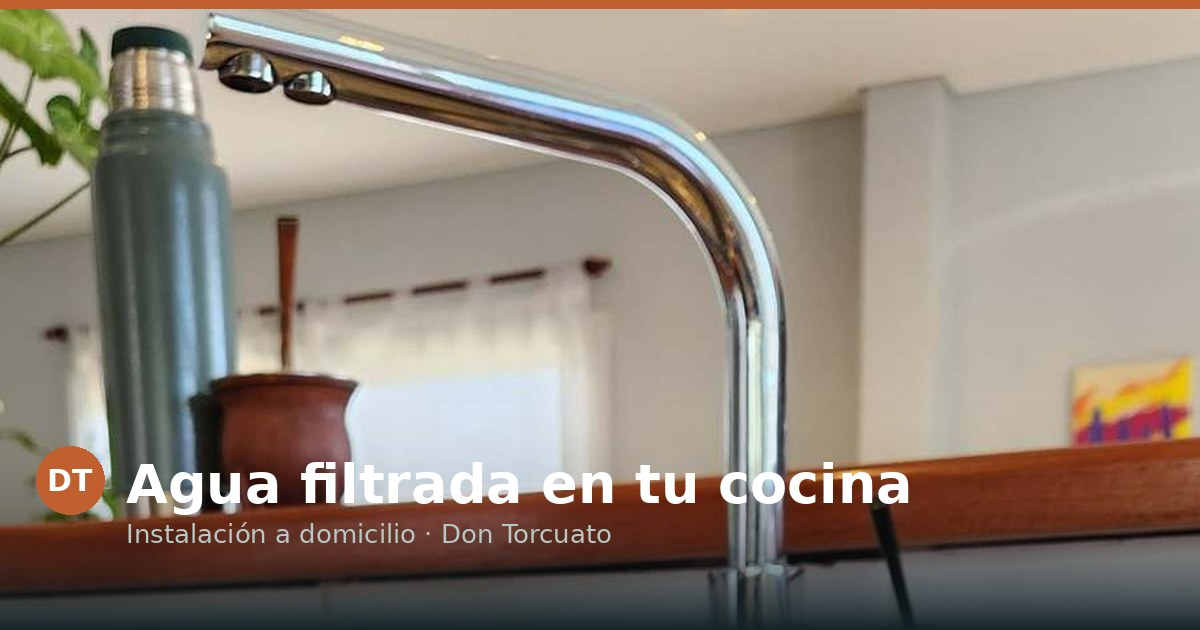
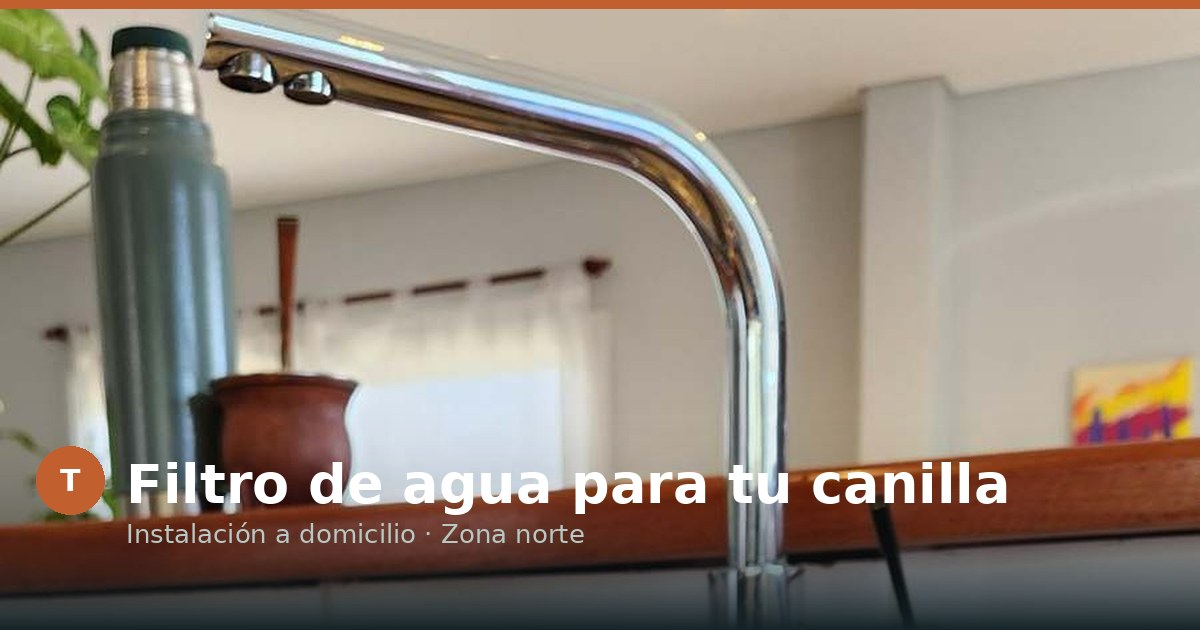
cambio url y google trends

Changed region(s): [[0.0308, 0.7238, 0.8633, 0.8746]]

diff --git a/index.html b/index.html
@@ -3,25 +3,25 @@
 <head>
 <meta charset="UTF-8">
 <meta name="viewport" content="width=device-width, initial-scale=1">
-<link rel="icon" type="image/png" sizes="192x192" href="https://agua-corriente.torcua.com.ar/favicon-192.png">
-<link rel="icon" type="image/png" sizes="32x32" href="https://agua-corriente.torcua.com.ar/favicon-32.png">
-<link rel="shortcut icon" href="https://agua-corriente.torcua.com.ar/favicon.ico">
-<link rel="apple-touch-icon" href="https://agua-corriente.torcua.com.ar/favicon-192.png">
-<meta name="description" content="Instalación de agua filtrada a domicilio en Don Torcuato. Sin sedimentos, sin cloro, instalada en el día. Pedí tu presupuesto sin cargo por WhatsApp.">
-<link rel="canonical" href="https://agua-corriente.torcua.com.ar/">
+<link rel="icon" type="image/png" sizes="192x192" href="https://filtro-agua.torcua.com.ar/favicon-192.png">
+<link rel="icon" type="image/png" sizes="32x32" href="https://filtro-agua.torcua.com.ar/favicon-32.png">
+<link rel="shortcut icon" href="https://filtro-agua.torcua.com.ar/favicon.ico">
+<link rel="apple-touch-icon" href="https://filtro-agua.torcua.com.ar/favicon-192.png">
+<meta name="description" content="Instalación de filtro de agua para canilla y para tu casa en zona norte. Filtro de sedimentos y carbón activado, sin cloro, instalado en el día. Presupuesto sin cargo por WhatsApp.">
+<link rel="canonical" href="https://filtro-agua.torcua.com.ar/">
 <meta property="og:type" content="website">
 <meta property="og:locale" content="es_AR">
-<meta property="og:url" content="https://agua-corriente.torcua.com.ar/">
+<meta property="og:url" content="https://filtro-agua.torcua.com.ar/">
 <meta property="og:site_name" content="Agua Filtrada Don Torcuato">
-<meta property="og:title" content="Agua Filtrada Don Torcuato">
-<meta property="og:description" content="Instalación de agua filtrada a domicilio en Don Torcuato. Sin sedimentos, sin cloro, instalada en el día. Pedí tu presupuesto sin cargo por WhatsApp.">
-<meta property="og:image" content="https://agua-corriente.torcua.com.ar/og-image.jpg">
+<meta property="og:title" content="Filtro de agua para tu casa, instalado en zona norte">
+<meta property="og:description" content="Instalación de filtro de agua para canilla y para tu casa en zona norte. Filtro de sedimentos y carbón activado, sin cloro, instalado en el día. Presupuesto sin cargo por WhatsApp.">
+<meta property="og:image" content="https://filtro-agua.torcua.com.ar/og-image.jpg">
 <meta property="og:image:width" content="1200">
 <meta property="og:image:height" content="630">
 <meta name="twitter:card" content="summary_large_image">
-<meta name="twitter:title" content="Agua Filtrada Don Torcuato">
-<meta name="twitter:description" content="Instalación de agua filtrada a domicilio en Don Torcuato. Sin sedimentos, sin cloro, instalada en el día. Pedí tu presupuesto sin cargo por WhatsApp.">
-<meta name="twitter:image" content="https://agua-corriente.torcua.com.ar/og-image.jpg">
+<meta name="twitter:title" content="Filtro de agua para tu casa, instalado en zona norte">
+<meta name="twitter:description" content="Instalación de filtro de agua para canilla y para tu casa en zona norte. Filtro de sedimentos y carbón activado, sin cloro, instalado en el día. Presupuesto sin cargo por WhatsApp.">
+<meta name="twitter:image" content="https://filtro-agua.torcua.com.ar/og-image.jpg">
 <!-- Google Tag Manager -->
 <script>(function(w,d,s,l,i){w[l]=w[l]||[];w[l].push({'gtm.start':
 new Date().getTime(),event:'gtm.js'});var f=d.getElementsByTagName(s)[0],
@@ -29,16 +29,16 @@ j=d.createElement(s),dl=l!='dataLayer'?'&l='+l:'';j.async=true;j.src=
 'https://www.googletagmanager.com/gtm.js?id='+i+dl;f.parentNode.insertBefore(j,f);
 })(window,document,'script','dataLayer','GTM-WCQWR267');</script>
 <!-- End Google Tag Manager -->
-<title>Agua Filtrada Don Torcuato</title>
+<title>Filtro de agua para canilla: instalación a domicilio en zona norte</title>
 <script type="application/ld+json">
 {
   "@context": "https://schema.org",
   "@type": "Plumber",
   "name": "Agua Filtrada Don Torcuato",
-  "image": "https://agua-corriente.torcua.com.ar/og-image.jpg",
-  "url": "https://agua-corriente.torcua.com.ar/",
+  "image": "https://filtro-agua.torcua.com.ar/og-image.jpg",
+  "url": "https://filtro-agua.torcua.com.ar/",
   "telephone": "+5491166056378",
-  "priceRange": "$220000 - $345000",
+  "priceRange": "$220000 - $690000",
   "currenciesAccepted": "ARS",
   "paymentAccepted": "Efectivo, Transferencia",
   "areaServed": {
@@ -55,7 +55,8 @@ j=d.createElement(s),dl=l!='dataLayer'?'&l='+l:'';j.async=true;j.src=
     {"@type":"Offer","itemOffered":{"@type":"Service","name":"Instalación de filtro de agua - Esencial","description":"Filtro de sedimentos y carbón activado con canilla exclusiva de agua filtrada, instalación incluida."},"price":"220000","priceCurrency":"ARS"},
     {"@type":"Offer","itemOffered":{"@type":"Service","name":"Instalación de filtro de agua - 3 en 1 Cromo","description":"Canilla monocomando fría/caliente/filtrada con terminación cromada, instalación incluida."},"price":"315000","priceCurrency":"ARS"},
     {"@type":"Offer","itemOffered":{"@type":"Service","name":"Instalación de filtro de agua - 3 en 1 Negro Mate","description":"Canilla monocomando fría/caliente/filtrada con terminación negra satinada, instalación incluida."},"price":"330000","priceCurrency":"ARS"},
-    {"@type":"Offer","itemOffered":{"@type":"Service","name":"Instalación de filtro de agua - 3 en 1 Negro Flex","description":"Canilla monocomando fría/caliente/filtrada extensible, instalación incluida.","priceCurrency":"ARS"},"price":"345000","priceCurrency":"ARS"}
+    {"@type":"Offer","itemOffered":{"@type":"Service","name":"Instalación de filtro de agua - 3 en 1 Negro Flex","description":"Canilla monocomando fría/caliente/filtrada extensible, instalación incluida.","priceCurrency":"ARS"},"price":"345000","priceCurrency":"ARS"},
+    {"@type":"Offer","itemOffered":{"@type":"Service","name":"Instalación de ósmosis inversa bajo mesada","description":"Equipo de ósmosis inversa de 5 etapas con tanque y canilla exclusiva, instalación incluida."},"price":"690000","priceCurrency":"ARS"}
   ]
 }
 </script>
@@ -67,7 +68,10 @@ j=d.createElement(s),dl=l!='dataLayer'?'&l='+l:'';j.async=true;j.src=
     {"@type":"Question","name":"¿El agua de red de AySA tiene sarro?","acceptedAnswer":{"@type":"Answer","text":"No. El agua de red no tiene sarro, a diferencia del agua de pozo de la zona, que sí lo forma con el tiempo. Es un buen momento para cambiar la canilla vieja o manchada por una nueva."}},
     {"@type":"Question","name":"¿Cuánto tarda la instalación de un filtro de agua?","acceptedAnswer":{"@type":"Answer","text":"La instalación se hace en el mismo día, sin obra ni roturas en tu cocina. Se conecta directo a la llave de paso existente bajo mesada."}},
     {"@type":"Question","name":"¿Hay que esperar a que termine la obra de AySA para instalar el filtro?","acceptedAnswer":{"@type":"Answer","text":"No hace falta esperar. Instalando ahora vas a tener agua filtrada funcionando desde el primer momento en que llegue la conexión de AySA a tu casa, sin una segunda intervención en tu cocina más adelante."}},
-    {"@type":"Question","name":"¿Cuánto cuesta instalar un filtro de agua en Don Torcuato?","acceptedAnswer":{"@type":"Answer","text":"Depende de la grifería que elijas: desde $220.000 con la opción Esencial (usando tu canilla actual) hasta $345.000 con una canilla nueva 3 en 1 fría/caliente/filtrada, instalación incluida."}},
+    {"@type":"Question","name":"¿Cuánto cuesta instalar un filtro de agua en Don Torcuato?","acceptedAnswer":{"@type":"Answer","text":"Depende de la grifería que elijas: desde $220.000 con la opción Esencial (usando tu canilla actual) hasta $345.000 con una canilla nueva 3 en 1 fría/caliente/filtrada. Si preferís ósmosis inversa de 5 etapas, el equipo instalado es $690.000. Todos incluyen instalación."}},
+    {"@type":"Question","name":"¿Cuál es la diferencia entre el filtro de sedimentos y carbón y la ósmosis inversa?","acceptedAnswer":{"@type":"Answer","text":"Los equipos de sedimentos y carbón activado retienen partículas y quitan el cloro, el olor y el mal sabor; no modifican los minerales del agua, no necesitan electricidad ni descarga a desagüe y salen desde $220.000. La ósmosis inversa de 5 etapas agrega una membrana que reduce además sales y minerales disueltos; usa tanque de almacenamiento, descarga una parte del agua al desagüe y requiere cambiar la membrana y filtros periódicamente. Sale $690.000 instalada. Para agua de red, la primera opción alcanza en la mayoría de los casos; la ósmosis conviene si querés el agua más depurada posible."}},
+    {"@type":"Question","name":"¿Cuánta agua descarta la ósmosis inversa y qué necesita para funcionar?","acceptedAnswer":{"@type":"Answer","text":"Un equipo de ósmosis inversa aprovecha cerca de 30% del agua que recibe y descarta alrededor de 70% al desagüe. Necesita una presión de red de unos 2 kg; si tu casa tiene menos, se agrega una bomba presurizadora. Hay que conectarlo también al desagüe de la cocina."}},
+    {"@type":"Question","name":"¿Cuánto cuesta el mantenimiento de un equipo de ósmosis inversa?","acceptedAnswer":{"@type":"Answer","text":"De manera orientativa, los filtros se cambian una vez por año (alrededor de $60.000) y cada dos años se cambian filtros y membrana (alrededor de $120.000). Los valores pueden variar; consultanos el precio actual de los repuestos."}},
     {"@type":"Question","name":"¿Qué incluye la instalación?","acceptedAnswer":{"@type":"Answer","text":"Filtro de sedimentos de 5 micrones, filtro de carbón activado que elimina el cloro y el mal sabor, la canilla que elijas, y la instalación completa en el día. Servicio directo, sin intermediarios."}}
   ]
 }
@@ -234,6 +238,8 @@ nav .wrap{display:flex;align-items:center;justify-content:space-between;height:6
 .packages h2{font-size:29px;margin-bottom:6px;}
 .packages > .wrap > p{color:var(--ink-soft);margin-top:8px;font-size:16.5px;}
 .pkg-grid{display:grid;grid-template-columns:1fr 1fr;gap:20px;margin-top:28px;}
+.pkg-ro{grid-column:1/-1;}
+.pkg-ro .pkg-body{max-width:640px;}
 .pkg{
   background:var(--surface);border:1px solid var(--line);border-radius:14px;
   overflow:hidden;display:flex;flex-direction:column;position:relative;
@@ -373,8 +379,8 @@ height="0" width="0" style="display:none;visibility:hidden"></iframe></noscript>
 <header class="hero">
   <div class="wrap hero-grid">
     <div>
-      <div class="eyebrow">Instalación a domicilio · Don Torcuato</div>
-      <h1>Agua de la canilla,<br><em>sin gusto a cloro.</em></h1>
+      <div class="eyebrow">Instalación a domicilio · Zona norte</div>
+      <h1>Filtro de agua para tu canilla,<br><em>instalado en el día.</em></h1>
       <p>Con la obra de conexión a la red de agua corriente que arrancó esta semana en el barrio, tu casa ya va a tener agua segura. Filtrada de sedimentos y sin sabor a cloro, servida directo de tu propia canilla — instalado en el día.</p>
       <p class="hero-hook">¿Por qué seguir gastando en bidones? Aprovechá el momento justo para pasarte a agua corriente filtrada — sin gusto a cloro, sin sedimentos y sin sarro.</p>
       <div class="hero-actions">
@@ -405,8 +411,8 @@ height="0" width="0" style="display:none;visibility:hidden"></iframe></noscript>
         <p>El <strong>cartucho de carbón activado</strong> saca el gusto y olor a cloro del agua de red, para tomarla directo de la canilla.</p>
       </div>
       <div class="strip-card">
-        <span class="tag">Sin arsénico</span>
-        <p>La red de AySA ya resuelve el problema de arsénico del agua de pozo de la zona. Los filtros mejoran lo que la red no controla: sabor y sedimentos.</p>
+        <span class="tag">Arsénico en el agua</span>
+        <p>El agua de red de AySA ya tiene el arsénico controlado, a diferencia del agua de pozo. Este kit de filtros mejora lo que la red no controla: sabor, olor a cloro y sedimentos.</p>
       </div>
       <div class="strip-card">
         <span class="tag">Más ahorro</span>
@@ -435,8 +441,8 @@ height="0" width="0" style="display:none;visibility:hidden"></iframe></noscript>
 
 <section class="packages" id="paquetes">
   <div class="wrap">
-    <h2>Cuatro opciones de instalación</h2>
-    <p>Precio final instalado, según la grifería que elijas.</p>
+    <h2>Cinco opciones de instalación</h2>
+    <p>Precio final instalado: cuatro con filtros de sedimentos y carbón activado, según la grifería que elijas, y una de ósmosis inversa.</p>
     <div class="pkg-grid">
 
       <div class="pkg">
@@ -500,6 +506,20 @@ height="0" width="0" style="display:none;visibility:hidden"></iframe></noscript>
         </div>
       </div>
 
+      <div class="pkg pkg-ro">
+        <div class="pkg-body">
+          <h3>Ósmosis inversa 5 etapas</h3>
+          <div class="price">$690.000 <small>instalado</small></div>
+          <ul>
+            <li><svg width="15" height="15" viewBox="0 0 24 24" fill="none"><path d="M20 6L9 17l-5-5" stroke="currentColor" stroke-width="2.5" stroke-linecap="round" stroke-linejoin="round"/></svg>Ósmosis inversa de 5 etapas con membrana, tanque de almacenamiento y canilla exclusiva</li>
+            <li><svg width="15" height="15" viewBox="0 0 24 24" fill="none"><path d="M20 6L9 17l-5-5" stroke="currentColor" stroke-width="2.5" stroke-linecap="round" stroke-linejoin="round"/></svg>Agua más depurada: reduce sales y minerales disueltos además del cloro y los sedimentos</li>
+            <li><svg width="15" height="15" viewBox="0 0 24 24" fill="none"><path d="M20 6L9 17l-5-5" stroke="currentColor" stroke-width="2.5" stroke-linecap="round" stroke-linejoin="round"/></svg>Conexión a la red y al desagüe incluidas</li>
+            <li><svg width="15" height="15" viewBox="0 0 24 24" fill="none"><path d="M20 6L9 17l-5-5" stroke="currentColor" stroke-width="2.5" stroke-linecap="round" stroke-linejoin="round"/></svg>Instalación incluida, en el día</li>
+          </ul>
+          <a class="pkg-cta" href="__WA_LINK_OSMOSIS__" target="_blank" rel="noopener"><svg class="wa-icon" viewBox="0 0 24 24" aria-hidden="true"><path fill="currentColor" d="M12 2a10 10 0 0 0-8.6 15.1L2 22l5-1.3A10 10 0 1 0 12 2Zm0 18.2c-1.5 0-3-.4-4.2-1.2l-.3-.2-3 .8.8-2.9-.2-.3A8.2 8.2 0 1 1 12 20.2Zm4.5-6.1c-.2-.1-1.5-.7-1.7-.8-.2-.1-.4-.1-.6.1l-.8 1c-.1.2-.3.2-.5.1a6.7 6.7 0 0 1-3.3-2.9c-.3-.4.2-.4.7-1.4.1-.2 0-.3 0-.4l-.8-1.8c-.2-.5-.4-.4-.6-.4h-.5a1 1 0 0 0-.7.3 3 3 0 0 0-.9 2.2c0 1.3 1 2.6 1.1 2.8.1.2 1.9 2.9 4.6 4 1.7.7 2.4.8 3.2.7.5-.1 1.5-.6 1.7-1.2.2-.6.2-1.1.2-1.2-.1-.1-.2-.2-.4-.3Z"/></svg>Quiero la ósmosis inversa</a>
+        </div>
+      </div>
+
     </div>
   </div>
 </section>
@@ -521,12 +541,36 @@ height="0" width="0" style="display:none;visibility:hidden"></iframe></noscript>
         <p>No hace falta esperar. Instalando ahora vas a tener agua filtrada funcionando desde el primer momento en que llegue la conexión de AySA a tu casa, sin una segunda intervención en tu cocina más adelante.</p>
       </div>
       <div class="faq-card">
-        <h3>¿Cuánto cuesta instalar un filtro de agua en Don Torcuato?</h3>
-        <p>Depende de la grifería que elijas: desde $220.000 con la opción Esencial (usando tu canilla actual) hasta $345.000 con una canilla nueva 3 en 1 fría/caliente/filtrada, instalación incluida.</p>
+        <h3>¿Cuánto cuesta instalar un filtro de agua para la canilla?</h3>
+        <p>Depende de la grifería que elijas: desde $220.000 con la opción Esencial (usando tu canilla actual) hasta $345.000 con una canilla nueva 3 en 1 fría/caliente/filtrada. Si preferís ósmosis inversa de 5 etapas, el equipo instalado es $690.000. Todos incluyen instalación.</p>
       </div>
       <div class="faq-card">
         <h3>¿Qué incluye la instalación?</h3>
         <p>Filtro de sedimentos de 5 micrones, filtro de carbón activado que elimina el cloro y el mal sabor, la canilla que elijas, y la instalación completa en el día. Servicio directo, sin intermediarios.</p>
+      </div>
+      <div class="faq-card">
+        <h3>¿Qué filtro de agua conviene para la canilla de casa?</h3>
+        <p>Para agua de red, un filtro de sedimentos de 5 micrones más uno de carbón activado debajo de la mesada, con canilla propia para agua filtrada o una 3 en 1 fría, caliente y filtrada. Es lo que instalamos en todas las opciones.</p>
+      </div>
+      <div class="faq-card">
+        <h3>¿El filtro saca el arsénico o sirve para agua de pozo?</h3>
+        <p>No. Este kit está pensado para agua de red: mejora el sabor, el olor a cloro y retiene sedimentos, pero no es un tratamiento para arsénico. Si tomás agua de pozo, lo correcto es hacer un análisis de laboratorio antes de elegir cualquier equipo.</p>
+      </div>
+      <div class="faq-card">
+        <h3>¿Qué diferencia hay entre el filtro de sedimentos y carbón y la ósmosis inversa?</h3>
+        <p>Los filtros de sedimentos y carbón activado (las cuatro primeras opciones) retienen partículas y quitan el cloro, el olor y el mal sabor, sin cambiar los minerales del agua; no usan electricidad ni descargan agua al desagüe. La ósmosis inversa de 5 etapas suma una membrana que además reduce sales y minerales disueltos: el agua queda más depurada, pero usa tanque, descarga una parte al desagüe y requiere recambio periódico de membrana y filtros.</p>
+      </div>
+      <div class="faq-card">
+        <h3>¿Me conviene un filtro común o ósmosis inversa?</h3>
+        <p>Con agua de red, para mejorar sabor y olor alcanza con sedimentos y carbón activado, que es la opción más económica y de menor mantenimiento. La ósmosis inversa conviene si querés el agua más depurada posible (por ejemplo para bebés, café o hielo) y no te molesta el mantenimiento extra. Si tenés agua de pozo, primero hacé un análisis de laboratorio.</p>
+      </div>
+      <div class="faq-card">
+        <h3>¿Cuánta agua descarta la ósmosis inversa y qué necesita para funcionar?</h3>
+        <p>Un equipo de ósmosis inversa aprovecha cerca de 30% del agua que recibe y descarta alrededor de 70% al desagüe. Necesita una presión de red de unos 2 kg; si tu casa tiene menos, se agrega una bomba presurizadora. Hay que conectarlo también al desagüe de la cocina.</p>
+      </div>
+      <div class="faq-card">
+        <h3>¿Cuánto cuesta el mantenimiento de un equipo de ósmosis inversa?</h3>
+        <p>De manera orientativa, los filtros se cambian una vez por año (alrededor de $60.000) y cada dos años se cambian filtros y membrana (alrededor de $120.000). Los valores pueden variar; consultanos el precio actual de los repuestos.</p>
       </div>
     </div>
   </div>
@@ -555,6 +599,7 @@ height="0" width="0" style="display:none;visibility:hidden"></iframe></noscript>
           <option value="3 en 1 Cromo">3 en 1 Cromo — $315.000</option>
           <option value="3 en 1 Negro Mate">3 en 1 Negro Mate — $330.000</option>
           <option value="3 en 1 Negro Flex">3 en 1 Negro Flex — $345.000</option>
+          <option value="Ósmosis inversa">Ósmosis inversa — $690.000</option>
           <option value="No estoy seguro">No estoy seguro todavía</option>
         </select>
       </div>
@@ -594,6 +639,7 @@ height="0" width="0" style="display:none;visibility:hidden"></iframe></noscript>
   document.querySelectorAll('a[href="__WA_LINK_ESENCIAL__"]').forEach(function(a){a.href = waLink("Hola! Me interesa el paquete ESENCIAL de agua filtrada ($220.000).");});
   document.querySelectorAll('a[href="__WA_LINK_NEGRO__"]').forEach(function(a){a.href = waLink("Hola! Me interesa el paquete 3 EN 1 NEGRO MATE ($330.000).");});
   document.querySelectorAll('a[href="__WA_LINK_CROMO__"]').forEach(function(a){a.href = waLink("Hola! Me interesa el paquete 3 EN 1 CROMO ($315.000).");});
+  document.querySelectorAll('a[href="__WA_LINK_OSMOSIS__"]').forEach(function(a){a.href = waLink("Hola! Me interesa el equipo de ÓSMOSIS INVERSA de 5 etapas ($690.000).");});
   document.querySelectorAll('a[href="__WA_LINK_FLEX__"]').forEach(function(a){a.href = waLink("Hola! Me interesa el paquete 3 EN 1 NEGRO FLEX ($345.000).");});
 
   var PRODUCT_IMAGES = {

diff --git a/wa-track.js b/wa-track.js
@@ -12,6 +12,7 @@
 
   var SITIOS = {
     "agua-corriente.torcua.com.ar": "agua",
+    "filtro-agua.torcua.com.ar": "agua",
     "mecanica.torcua.com.ar": "mecanica",
     "mosquiteros.torcua.com.ar": "mosquiteros"
   };
